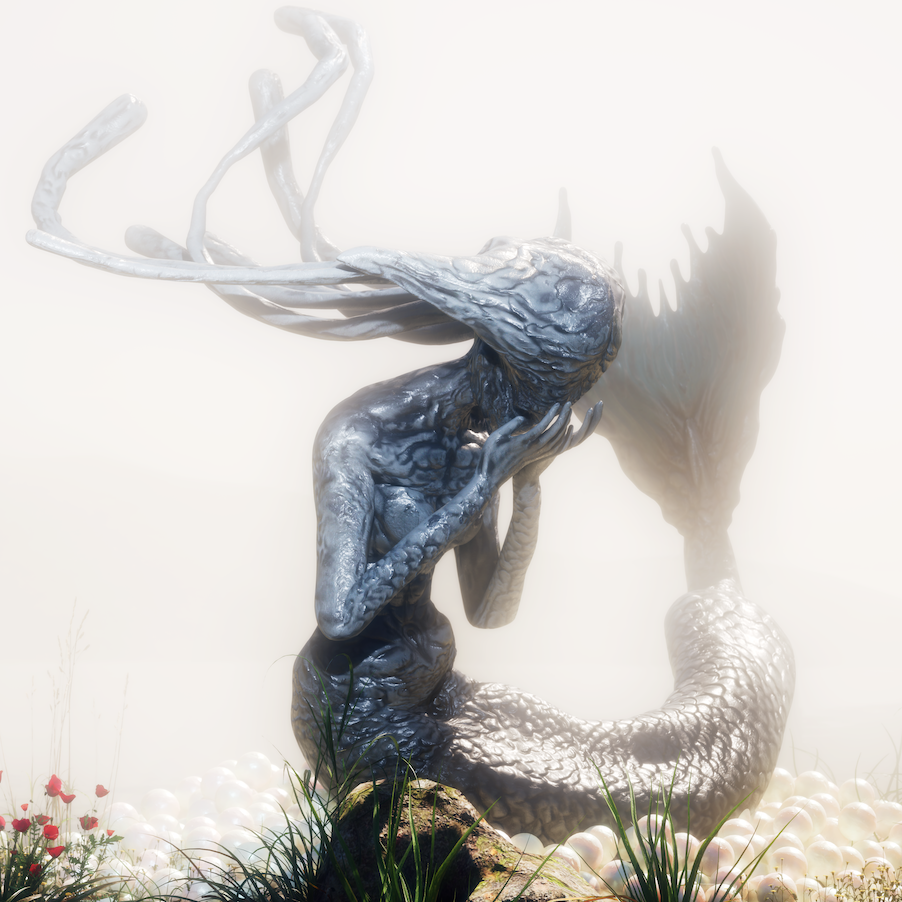
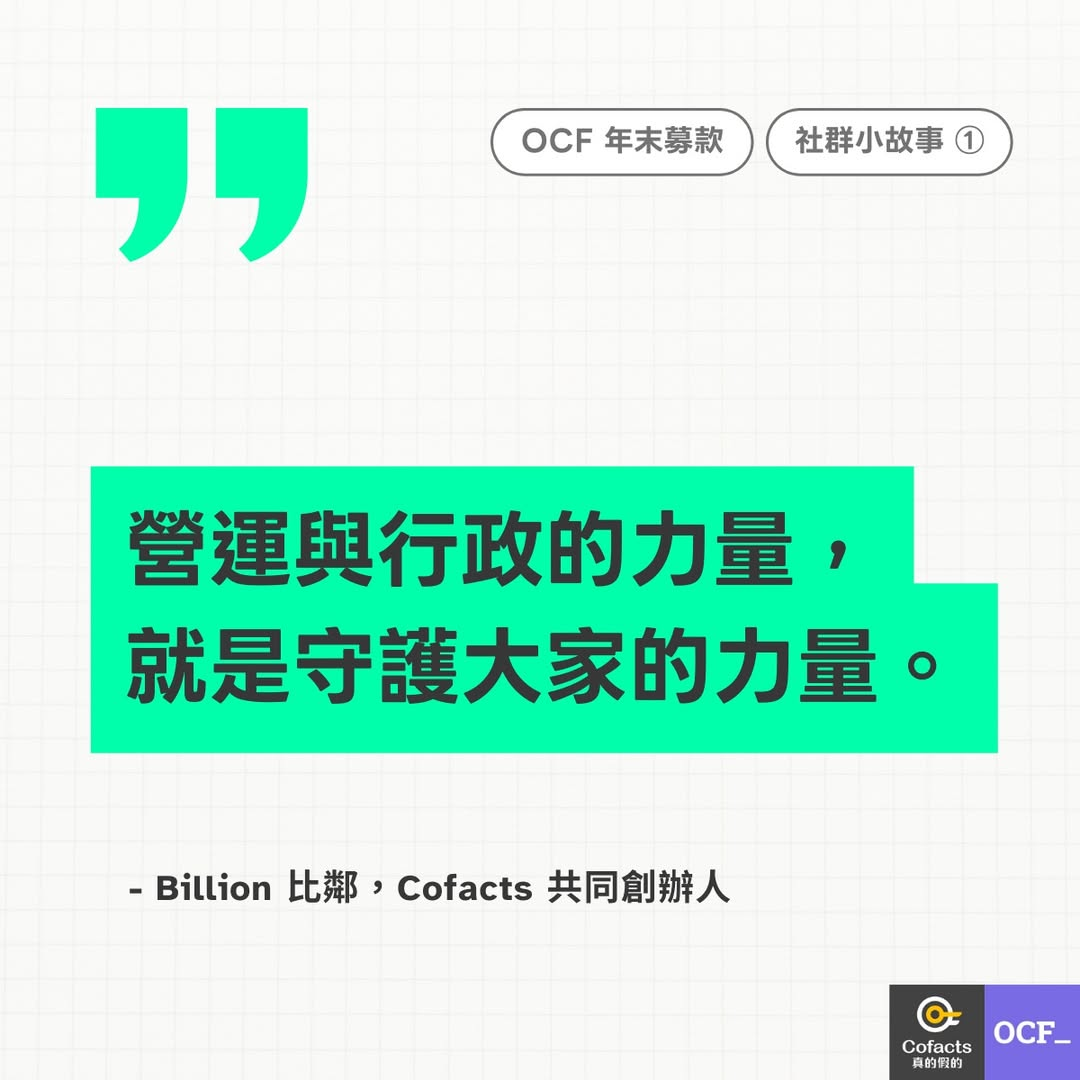
update homepage articles

diff --git a/index.html b/index.html
@@ -84,25 +84,22 @@ donors: false
   <div class="project-result-container">
     <h2>最新動態</h2>
     <div class="project-items">
-      <a href="https://ocf.tw/story/ospos-1-join-OSPO-alliance/" class="item">
+      <a href="https://ocf.tw/story/epaper/2025/202512news/oscvpass202512/" class="item">
         <div>
           <img src="assets/images/web_homepage_elements_What Icon 2.svg" class="item-icon" >
-          <h2>開源治理系列文章</h2> 
+          <h2>IT Matters 開源社群貢獻獎</h2> 
         </div>
       </a>
-      <a href="https://ocf.tw/story/epaper/2025/202511news/wiki-sue/" class="item">
+      <a href="https://ocf.tw/story/epaper/2025/202511news/advrights/" class="item">
+        <div>
+          <img src="assets/images/web_homepage_elements_What Icon 2.svg" class="item-icon" >
+          <h2>人權行動計畫倡議</h2> 
+        </div>
+      </a>
+      <a href="https://ocf.tw/story/epaper/2025/202512news/cofacts202512/"  class="item">
         <div>
           <img src="assets/images/web_homepage_elements_What Icon 2.svg" class="item-icon" >
           <h2></h2> 
-        </div>
-      </a>
-<!--
-十週年記錄，放最後
--->
-      <a href="https://ocf.tw/story/epaper/2025/202510news/main/"  class="item">
-        <div>
-          <img src="assets/images/web_homepage_elements_What Icon 2.svg" class="item-icon" >
-          <h2>明日音公眾授權專輯 11/30 專場演出</h2> 
         </div>
       </a>
     </div>
